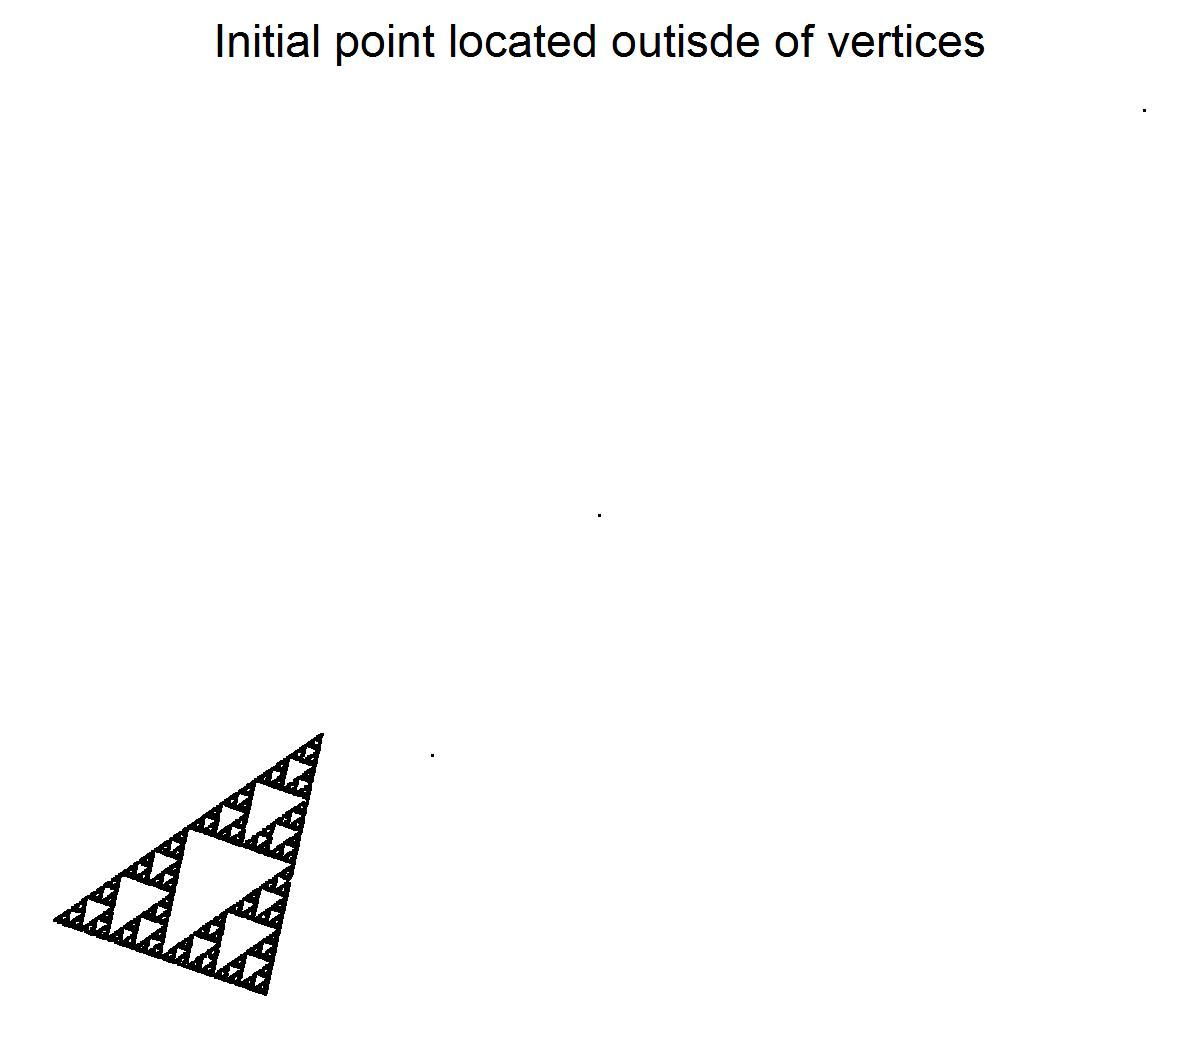
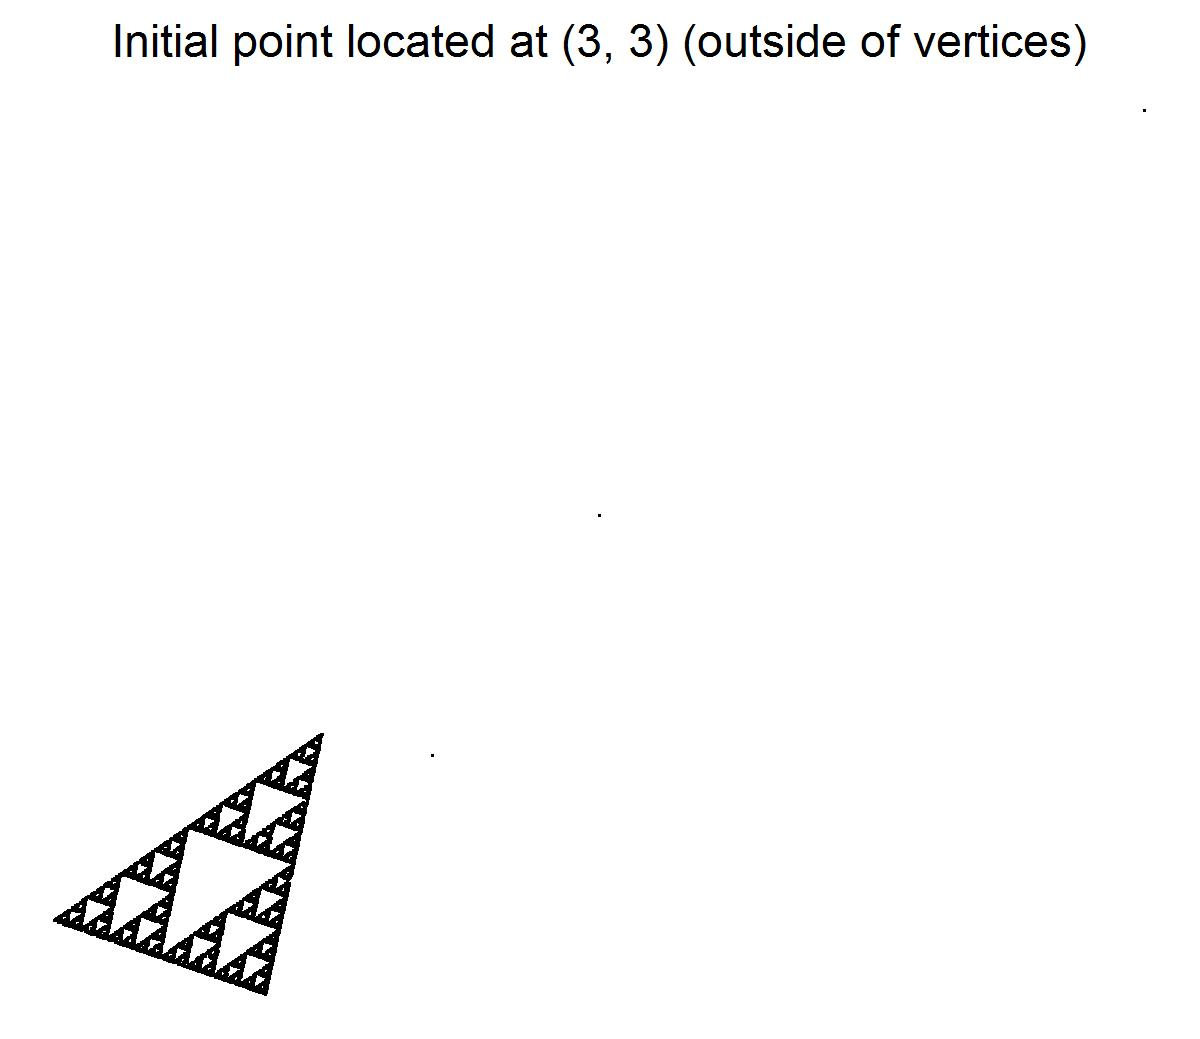
minor editing

Changed region(s): [[0.0925, 0.0, 0.925, 0.0616]]

diff --git a/Script.md b/Script.md
@@ -6,16 +6,16 @@ Raphaël Morsomme
 -   [Introduction](#introduction)
     -   [Fractals](#fractals)
     -   [The Chaos Game](#the-chaos-game)
-    -   [Outline of Script](#outline-of-script)
--   [Sierpinski Gasket and Other Triangular Fractals](#sierpinski-gasket-and-other-triangular-fractals)
+    -   [Outline](#outline)
+-   [Triangular Fractals (Sierpinski Gasket and Others)](#triangular-fractals-sierpinski-gasket-and-others)
     -   [The Function `generate_sg()`](#the-function-generate_sg)
-    -   [Other Triangular Fractals](#other-triangular-fractals)
--   [General Formula](#general-formula)
-    -   [The Function `generate_fractal()`](#the-function-generate_fractal)
     -   [Experimenting](#experimenting)
+-   [Fractals with *k* Vertices](#fractals-with-k-vertices)
+    -   [The Function `generate_fractal()`](#the-function-generate_fractal)
+    -   [Experimenting](#experimenting-1)
 -   [Bonus: Barnsley Fern](#bonus-barnsley-fern)
     -   [The Function `generate_bf()`](#the-function-generate_bf)
-    -   [Experimenting](#experimenting-1)
+    -   [Experimenting](#experimenting-2)
 -   [Summary](#summary)
 
 ``` r
@@ -25,7 +25,7 @@ library(tidyverse)
 Introduction
 ============
 
-In this script, I implement the so-called *choas game* to generate fractals. I decided to write this script after watching a [tutorial video](https://www.youtube.com/watch?v=kbKtFN71Lfs) by Numberphile on the topic. I found the chaos game fascinating and wanted to implement it on R Studio. I also wanted to generalize this method to be able to generate other types of fractal.
+In this script, I implement the so-called *choas game* to generate fractals. I decided to write this script after watching a [tutorial video](https://www.youtube.com/watch?v=kbKtFN71Lfs) by Numberphile on the topic. I found the chaos game fascinating and wanted to implement it on R. I also wanted to generalize this method to be able to generate other types of fractal.
 
 Fractals
 --------
@@ -45,18 +45,18 @@ The 8-minute [tutorial video](https://www.youtube.com/watch?v=kbKtFN71Lfs) *Chao
 4.  Draw the point half distance between the current point and the chosen vertex.
 5.  Repeat from step 3.
 
-Outline of Script
------------------
+Outline
+-------
 
-I kick off this script with a well-know fractal: the Sierpinski Gasket. I write a function that uses the chaos game to generate it and then experiment with the parameters to vary the shape and patterns of the obtained figure I then generalize the function to generate fractals with any number of vertices before finishing the script with an adaptation of the chaos game that generates Barnsley Fern, another beautiful fractal.
+I kick off this script with a well-know fractal: the Sierpinski Gasket. I write a function that uses the chaos game to generate it and then experiment with the parameters to vary the shape and patterns of the obtained figure. I then generalize the function to generate fractals with any number of vertices before finishing the script with an adaptation of the chaos game that generates Barnsley Fern, another beautiful fractal.
 
-Sierpinski Gasket and Other Triangular Fractals
-===============================================
+Triangular Fractals (Sierpinski Gasket and Others)
+==================================================
 
 The Function `generate_sg()`
 ----------------------------
 
-We design the function `generate_sg()` that uses the chaos game to generate a Sierpinski Gasket.
+We create the function `generate_sg()` which uses the chaos game to generate a Sierpinski Gasket.
 
 ``` r
 generate_sg <- function(
@@ -121,7 +121,7 @@ generate_sg <- function(
 }
 ```
 
-We can simplify the loop of the function `generate_sg` to speed it up.
+We can simplify the loop of the for-function `generate_sg()` to speed it up.
 
 ``` r
 generate_sg <- function(n = 1e4, v1 = c(0,0), v2 = c(1, 0), v3 = c(0.5, sqrt(3)/2), 
@@ -163,8 +163,8 @@ generate_sg(title = "Sierpinski Gasket", subtitle = "(10,000 iterations)")
 
 <img src="Script_files/figure-markdown_github/sg default-1.png" style="display: block; margin: auto;" />
 
-Other Triangular Fractals
--------------------------
+Experimenting
+-------------
 
 We can generate triangular fractals with various shapes and patterns by varying the parameters of the function `generate_sg()`. First, by changing the value of `p`, we generate fractals with different patterns.
 
@@ -178,7 +178,7 @@ for(p in c(0.1, 0.2, 0.3, 0.45, 0.5, 0.55, 0.7, 0.8, 0.9, 0.95))
 
 It seems that for `p` superior to `0.5`, larger values give figures that are more chaotic.
 
-Second, we can also randomly determine the location of the vertices to obtain different triangular figures.
+Second, we can randomly determine the location of the vertices to obtain different triangular figures.
 
 ``` r
 for(seed in c(123 : 125)){
@@ -203,19 +203,19 @@ generate_sg(v1 = runif(2), v2 = runif(2), v3 = runif(2),
 
 <img src="Script_files/figure-markdown_github/sg n-1.png" style="display: block; margin: auto;" />
 
-Finally, changing the location of the initial point does not significantly alter the outcome: the sequence of points rapidly follows the regular pattern.
+Finally, changing the location of the initial point does not significantly alter the outcome of teh chaos game: the sequence of points rapidly follows the regular pattern.
 
 ``` r
 set.seed(125)
 generate_sg(v1 = runif(2), v2 = runif(2), v3 = runif(2),
             initial_point = c(3, 3),
-            subtitle = "Initial point located outisde of vertices")
+            subtitle = "Initial point located at (3, 3) (outside of vertices)")
 ```
 
 <img src="Script_files/figure-markdown_github/sg i_p-1.png" style="display: block; margin: auto;" />
 
-General Formula
-===============
+Fractals with *k* Vertices
+==========================
 
 The Function `generate_fractal()`
 ---------------------------------
@@ -227,7 +227,8 @@ One could also be interested in generating fractals with more vertices. The func
 -   `x` and `y` determine the x- and y-coordinates of the fractal's vertices. If the arguments `x` and `y` are left to `NULL`, then the coordinates are randomly generated.
 
 ``` r
-generate_fractal <- function(n = 1e4, k = 4, x = NULL, y = NULL, p = 0.5, title = NULL, subtitle = NULL){
+generate_fractal <- function(n = 1e4, p = 0.5, title = NULL, subtitle = NULL, 
+                             k = 4, x = NULL, y = NULL){
   
   
   #
@@ -345,7 +346,8 @@ The function `generate_bf()` uses an adaptation of the chaos game to generate a 
 -   `proba` gives the probability of applying each of the four transformations to the point. Each transformation has an element of Barnsley Fern associated to it: the stem, the leaves' end, the fern's left-hand side and the fern's right-hand side.
 
 ``` r
-generate_bf <- function(n = 1e4, proba = c(0.01, 0.85, 0.07, 0.07), title = NULL, subtitle = NULL){
+generate_bf <- function(n = 1e4, title = NULL, subtitle = NULL,
+                        proba = c(0.01, 0.85, 0.07, 0.07)){
   
   
   #
@@ -413,7 +415,7 @@ generate_bf(title = "Barnsley Fern", subtitle = "10,000 iterations")
 Experimenting
 -------------
 
-Changing the probabilities in `proba` changes the distribution of the points among the different elements of the fern (stem, leaves' end, and left- and right-hand sides). If we set one of the elements of `proba` to `0`, it leaves the associated element of the fern blank.
+Changing the probabilities in `proba` changes the distribution of the points among the different elements of the fern (stem, leaves' end, and left- and right-hand sides). If we set an element of `proba` to `0`, it leaves the associated element of the fern blank.
 
 ``` r
 proba     <- c(0.01, 0.85, 0.07, 0.07)
